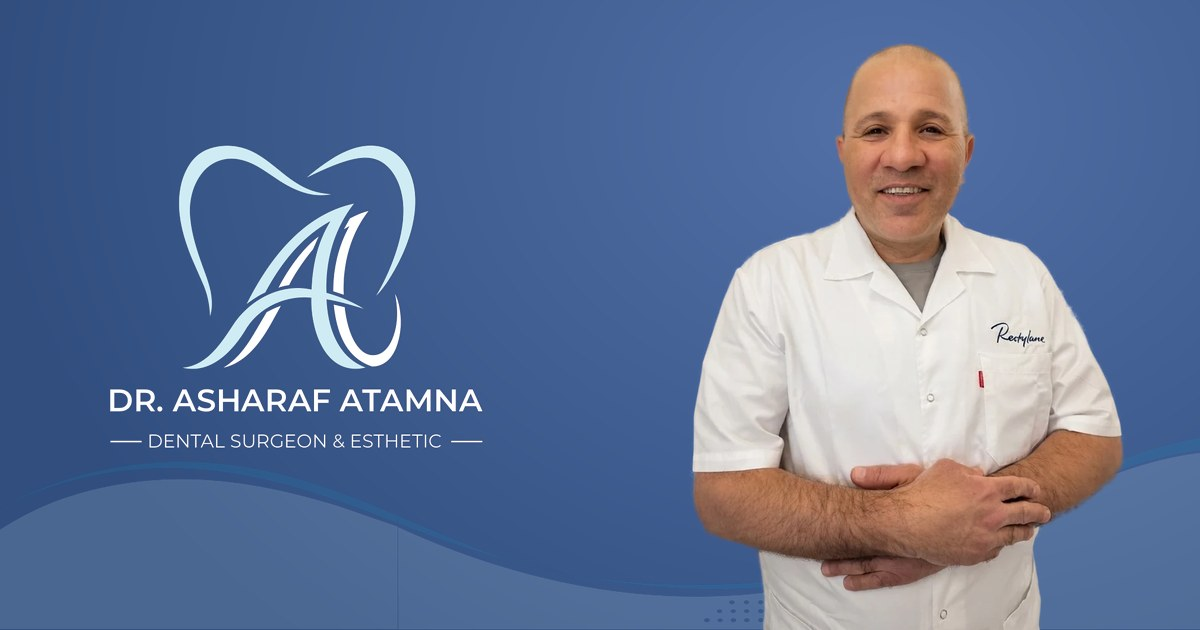
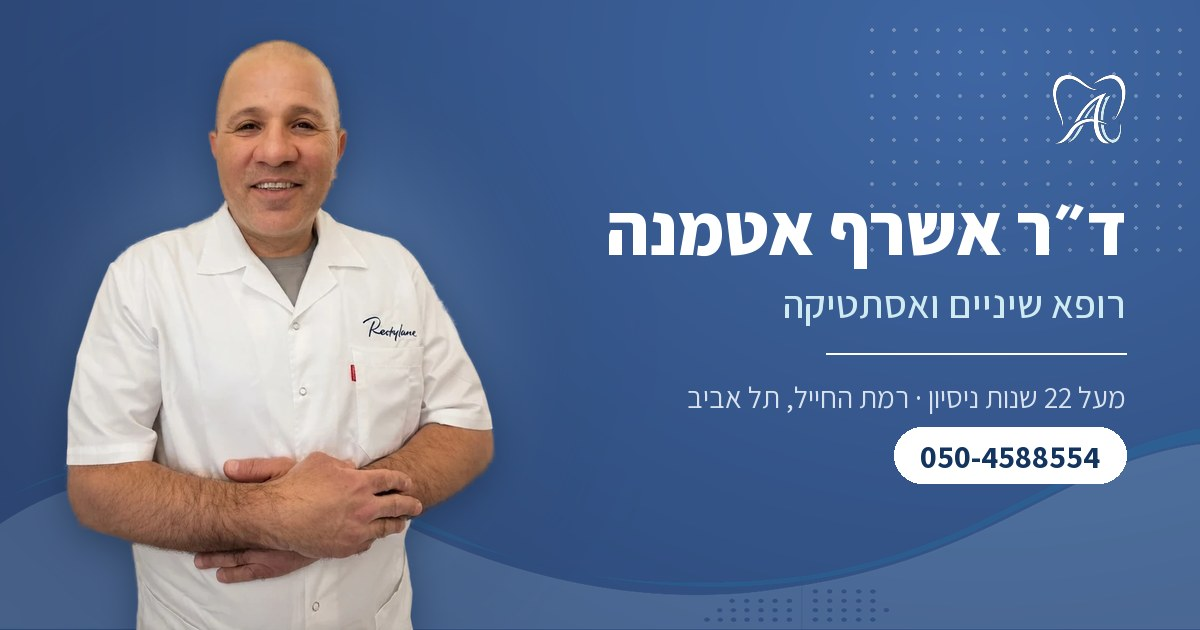
תמונת שיתוף (Open Graph) עם ד"ר אשרף וטקסט בעברית
assets/img/og-image.jpg (1200x630, 73KB) נבנתה מחדש:
ד"ר אשרף בחיתוך על רקע המותג, סמל הלוגו, שמו בעברית, התחום, הוותק,
המיקום ומספר טלפון בכפתור. הטקסט מרונדר בגופן Assistant (אותו גופן שבאתר).

תגיות בכל ששת העמודים - הושלמו החסרות:
og:image, og:image:secure_url, og:image:type, og:image:width,
og:image:height, og:image:alt, twitter:card, twitter:image, twitter:image:alt.
לפני כן בעמודי מדיניות פרטיות והצהרת נגישות חסרו width/height,
ובכל העמודים חסרו alt, type ו-twitter:image.

_build/make-og-image.py חדש: בונה מחדש את התמונה אם משתנים הטלפון,
הכתובת או התמונה של ד"ר אשרף. מוריד לבד את הגופן בהרצה הראשונה.

diff --git a/services/index.html b/services/index.html
@@ -16,9 +16,14 @@
 <meta property="og:description" content="מטיפולי חירום ועד שיקומי פה מורכבים, שתלים ואסתטיקה - כל תחומי הטיפול של המרפאה במקום אחד.">
 <meta property="og:url" content="https://dr-atamna.co.il/services/">
 <meta property="og:image" content="https://dr-atamna.co.il/assets/img/og-image.jpg">
+<meta property="og:image:secure_url" content="https://dr-atamna.co.il/assets/img/og-image.jpg">
+<meta property="og:image:type" content="image/jpeg">
 <meta property="og:image:width" content="1200">
 <meta property="og:image:height" content="630">
+<meta property="og:image:alt" content="ד״ר אשרף אטמנה, רופא שיניים ואסתטיקה ברמת החייל, תל אביב">
 <meta name="twitter:card" content="summary_large_image">
+<meta name="twitter:image" content="https://dr-atamna.co.il/assets/img/og-image.jpg">
+<meta name="twitter:image:alt" content="ד״ר אשרף אטמנה, רופא שיניים ואסתטיקה ברמת החייל, תל אביב">
 
 <link rel="icon" href="../assets/img/favicon.svg" type="image/svg+xml">
 <link rel="icon" href="../assets/img/favicon-32.png" sizes="32x32">

diff --git a/_build/services.head.html b/_build/services.head.html
@@ -13,9 +13,14 @@
 <meta property="og:description" content="מטיפולי חירום ועד שיקומי פה מורכבים, שתלים ואסתטיקה - כל תחומי הטיפול של המרפאה במקום אחד.">
 <meta property="og:url" content="https://dr-atamna.co.il/services/">
 <meta property="og:image" content="https://dr-atamna.co.il/assets/img/og-image.jpg">
+<meta property="og:image:secure_url" content="https://dr-atamna.co.il/assets/img/og-image.jpg">
+<meta property="og:image:type" content="image/jpeg">
 <meta property="og:image:width" content="1200">
 <meta property="og:image:height" content="630">
+<meta property="og:image:alt" content="ד״ר אשרף אטמנה, רופא שיניים ואסתטיקה ברמת החייל, תל אביב">
 <meta name="twitter:card" content="summary_large_image">
+<meta name="twitter:image" content="https://dr-atamna.co.il/assets/img/og-image.jpg">
+<meta name="twitter:image:alt" content="ד״ר אשרף אטמנה, רופא שיניים ואסתטיקה ברמת החייל, תל אביב">
 
 <link rel="icon" href="assets/img/favicon.svg" type="image/svg+xml">
 <link rel="icon" href="assets/img/favicon-32.png" sizes="32x32">

diff --git a/index.html b/index.html
@@ -18,9 +18,14 @@
 <meta property="og:description" content="ד״ר אשרף אטמנה, רופא שיניים עם מעל 22 שנות ניסיון - טיפולים משמרים, שיקומי פה, שתלים ואסתטיקה, בגישה אישית ואמפתית.">
 <meta property="og:url" content="https://dr-atamna.co.il/">
 <meta property="og:image" content="https://dr-atamna.co.il/assets/img/og-image.jpg">
+<meta property="og:image:secure_url" content="https://dr-atamna.co.il/assets/img/og-image.jpg">
+<meta property="og:image:type" content="image/jpeg">
 <meta property="og:image:width" content="1200">
 <meta property="og:image:height" content="630">
+<meta property="og:image:alt" content="ד״ר אשרף אטמנה, רופא שיניים ואסתטיקה ברמת החייל, תל אביב">
 <meta name="twitter:card" content="summary_large_image">
+<meta name="twitter:image" content="https://dr-atamna.co.il/assets/img/og-image.jpg">
+<meta name="twitter:image:alt" content="ד״ר אשרף אטמנה, רופא שיניים ואסתטיקה ברמת החייל, תל אביב">
 
 <!-- Icons & manifest -->
 <link rel="icon" href="assets/img/favicon.svg" type="image/svg+xml">

diff --git a/about/index.html b/about/index.html
@@ -16,9 +16,14 @@
 <meta property="og:description" content="מעל 22 שנות ניסיון קליני, גישה אנושית ואמפתית, וטיפול שמתחיל בהקשבה אמיתית.">
 <meta property="og:url" content="https://dr-atamna.co.il/about/">
 <meta property="og:image" content="https://dr-atamna.co.il/assets/img/og-image.jpg">
+<meta property="og:image:secure_url" content="https://dr-atamna.co.il/assets/img/og-image.jpg">
+<meta property="og:image:type" content="image/jpeg">
 <meta property="og:image:width" content="1200">
 <meta property="og:image:height" content="630">
+<meta property="og:image:alt" content="ד״ר אשרף אטמנה, רופא שיניים ואסתטיקה ברמת החייל, תל אביב">
 <meta name="twitter:card" content="summary_large_image">
+<meta name="twitter:image" content="https://dr-atamna.co.il/assets/img/og-image.jpg">
+<meta name="twitter:image:alt" content="ד״ר אשרף אטמנה, רופא שיניים ואסתטיקה ברמת החייל, תל אביב">
 
 <link rel="icon" href="../assets/img/favicon.svg" type="image/svg+xml">
 <link rel="icon" href="../assets/img/favicon-32.png" sizes="32x32">

diff --git a/_build/about.head.html b/_build/about.head.html
@@ -13,9 +13,14 @@
 <meta property="og:description" content="מעל 22 שנות ניסיון קליני, גישה אנושית ואמפתית, וטיפול שמתחיל בהקשבה אמיתית.">
 <meta property="og:url" content="https://dr-atamna.co.il/about/">
 <meta property="og:image" content="https://dr-atamna.co.il/assets/img/og-image.jpg">
+<meta property="og:image:secure_url" content="https://dr-atamna.co.il/assets/img/og-image.jpg">
+<meta property="og:image:type" content="image/jpeg">
 <meta property="og:image:width" content="1200">
 <meta property="og:image:height" content="630">
+<meta property="og:image:alt" content="ד״ר אשרף אטמנה, רופא שיניים ואסתטיקה ברמת החייל, תל אביב">
 <meta name="twitter:card" content="summary_large_image">
+<meta name="twitter:image" content="https://dr-atamna.co.il/assets/img/og-image.jpg">
+<meta name="twitter:image:alt" content="ד״ר אשרף אטמנה, רופא שיניים ואסתטיקה ברמת החייל, תל אביב">
 
 <link rel="icon" href="assets/img/favicon.svg" type="image/svg+xml">
 <link rel="icon" href="assets/img/favicon-32.png" sizes="32x32">

diff --git a/contact/index.html b/contact/index.html
@@ -16,9 +16,14 @@
 <meta property="og:description" content="050-4588554 · drasrf.clinic@gmail.com · רח׳ נמירובר 2 (הרוגי מלכות 7), רמת החייל, תל אביב.">
 <meta property="og:url" content="https://dr-atamna.co.il/contact/">
 <meta property="og:image" content="https://dr-atamna.co.il/assets/img/og-image.jpg">
+<meta property="og:image:secure_url" content="https://dr-atamna.co.il/assets/img/og-image.jpg">
+<meta property="og:image:type" content="image/jpeg">
 <meta property="og:image:width" content="1200">
 <meta property="og:image:height" content="630">
+<meta property="og:image:alt" content="ד״ר אשרף אטמנה, רופא שיניים ואסתטיקה ברמת החייל, תל אביב">
 <meta name="twitter:card" content="summary_large_image">
+<meta name="twitter:image" content="https://dr-atamna.co.il/assets/img/og-image.jpg">
+<meta name="twitter:image:alt" content="ד״ר אשרף אטמנה, רופא שיניים ואסתטיקה ברמת החייל, תל אביב">
 
 <link rel="icon" href="../assets/img/favicon.svg" type="image/svg+xml">
 <link rel="icon" href="../assets/img/favicon-32.png" sizes="32x32">

diff --git a/_build/contact.head.html b/_build/contact.head.html
@@ -13,9 +13,14 @@
 <meta property="og:description" content="050-4588554 · drasrf.clinic@gmail.com · רח׳ נמירובר 2 (הרוגי מלכות 7), רמת החייל, תל אביב.">
 <meta property="og:url" content="https://dr-atamna.co.il/contact/">
 <meta property="og:image" content="https://dr-atamna.co.il/assets/img/og-image.jpg">
+<meta property="og:image:secure_url" content="https://dr-atamna.co.il/assets/img/og-image.jpg">
+<meta property="og:image:type" content="image/jpeg">
 <meta property="og:image:width" content="1200">
 <meta property="og:image:height" content="630">
+<meta property="og:image:alt" content="ד״ר אשרף אטמנה, רופא שיניים ואסתטיקה ברמת החייל, תל אביב">
 <meta name="twitter:card" content="summary_large_image">
+<meta name="twitter:image" content="https://dr-atamna.co.il/assets/img/og-image.jpg">
+<meta name="twitter:image:alt" content="ד״ר אשרף אטמנה, רופא שיניים ואסתטיקה ברמת החייל, תל אביב">
 
 <link rel="icon" href="assets/img/favicon.svg" type="image/svg+xml">
 <link rel="icon" href="assets/img/favicon-32.png" sizes="32x32">

diff --git a/accessibility/index.html b/accessibility/index.html
@@ -16,7 +16,14 @@
 <meta property="og:description" content="רמת הנגישות באתר ובמרפאה, ופרטי הפנייה בנושא נגישות.">
 <meta property="og:url" content="https://dr-atamna.co.il/accessibility/">
 <meta property="og:image" content="https://dr-atamna.co.il/assets/img/og-image.jpg">
+<meta property="og:image:secure_url" content="https://dr-atamna.co.il/assets/img/og-image.jpg">
+<meta property="og:image:type" content="image/jpeg">
+<meta property="og:image:width" content="1200">
+<meta property="og:image:height" content="630">
+<meta property="og:image:alt" content="ד״ר אשרף אטמנה, רופא שיניים ואסתטיקה ברמת החייל, תל אביב">
 <meta name="twitter:card" content="summary_large_image">
+<meta name="twitter:image" content="https://dr-atamna.co.il/assets/img/og-image.jpg">
+<meta name="twitter:image:alt" content="ד״ר אשרף אטמנה, רופא שיניים ואסתטיקה ברמת החייל, תל אביב">
 
 <link rel="icon" href="../assets/img/favicon.svg" type="image/svg+xml">
 <link rel="icon" href="../assets/img/favicon-32.png" sizes="32x32">

diff --git a/privacy/index.html b/privacy/index.html
@@ -16,7 +16,14 @@
 <meta property="og:description" content="אילו פרטים נאספים באתר, למה הם משמשים וכיצד הם נשמרים.">
 <meta property="og:url" content="https://dr-atamna.co.il/privacy/">
 <meta property="og:image" content="https://dr-atamna.co.il/assets/img/og-image.jpg">
+<meta property="og:image:secure_url" content="https://dr-atamna.co.il/assets/img/og-image.jpg">
+<meta property="og:image:type" content="image/jpeg">
+<meta property="og:image:width" content="1200">
+<meta property="og:image:height" content="630">
+<meta property="og:image:alt" content="ד״ר אשרף אטמנה, רופא שיניים ואסתטיקה ברמת החייל, תל אביב">
 <meta name="twitter:card" content="summary_large_image">
+<meta name="twitter:image" content="https://dr-atamna.co.il/assets/img/og-image.jpg">
+<meta name="twitter:image:alt" content="ד״ר אשרף אטמנה, רופא שיניים ואסתטיקה ברמת החייל, תל אביב">
 
 <link rel="icon" href="../assets/img/favicon.svg" type="image/svg+xml">
 <link rel="icon" href="../assets/img/favicon-32.png" sizes="32x32">

diff --git a/_build/accessibility.head.html b/_build/accessibility.head.html
@@ -13,7 +13,14 @@
 <meta property="og:description" content="רמת הנגישות באתר ובמרפאה, ופרטי הפנייה בנושא נגישות.">
 <meta property="og:url" content="https://dr-atamna.co.il/accessibility/">
 <meta property="og:image" content="https://dr-atamna.co.il/assets/img/og-image.jpg">
+<meta property="og:image:secure_url" content="https://dr-atamna.co.il/assets/img/og-image.jpg">
+<meta property="og:image:type" content="image/jpeg">
+<meta property="og:image:width" content="1200">
+<meta property="og:image:height" content="630">
+<meta property="og:image:alt" content="ד״ר אשרף אטמנה, רופא שיניים ואסתטיקה ברמת החייל, תל אביב">
 <meta name="twitter:card" content="summary_large_image">
+<meta name="twitter:image" content="https://dr-atamna.co.il/assets/img/og-image.jpg">
+<meta name="twitter:image:alt" content="ד״ר אשרף אטמנה, רופא שיניים ואסתטיקה ברמת החייל, תל אביב">
 
 <link rel="icon" href="assets/img/favicon.svg" type="image/svg+xml">
 <link rel="icon" href="assets/img/favicon-32.png" sizes="32x32">

diff --git a/_build/privacy.head.html b/_build/privacy.head.html
@@ -13,7 +13,14 @@
 <meta property="og:description" content="אילו פרטים נאספים באתר, למה הם משמשים וכיצד הם נשמרים.">
 <meta property="og:url" content="https://dr-atamna.co.il/privacy/">
 <meta property="og:image" content="https://dr-atamna.co.il/assets/img/og-image.jpg">
+<meta property="og:image:secure_url" content="https://dr-atamna.co.il/assets/img/og-image.jpg">
+<meta property="og:image:type" content="image/jpeg">
+<meta property="og:image:width" content="1200">
+<meta property="og:image:height" content="630">
+<meta property="og:image:alt" content="ד״ר אשרף אטמנה, רופא שיניים ואסתטיקה ברמת החייל, תל אביב">
 <meta name="twitter:card" content="summary_large_image">
+<meta name="twitter:image" content="https://dr-atamna.co.il/assets/img/og-image.jpg">
+<meta name="twitter:image:alt" content="ד״ר אשרף אטמנה, רופא שיניים ואסתטיקה ברמת החייל, תל אביב">
 
 <link rel="icon" href="assets/img/favicon.svg" type="image/svg+xml">
 <link rel="icon" href="assets/img/favicon-32.png" sizes="32x32">

diff --git a/_build/make-og-image.py b/_build/make-og-image.py
@@ -1,0 +1,170 @@
+# -*- coding: utf-8 -*-
+"""
+בונה מחדש את תמונת השיתוף לרשתות (Open Graph) - assets/img/og-image.jpg
+
+זו התמונה שמופיעה בתצוגה המקדימה כששולחים קישור לאתר בוואטסאפ, פייסבוק,
+טלגרם, לינקדאין ו-X. היא מכילה את התמונה של ד"ר אשרף, שם, תחום ומספר טלפון.
+
+מתי צריך להריץ מחדש:
+  - השתנה מספר הטלפון או הכתובת
+  - התחלפה התמונה של ד"ר אשרף (assets/img/dr-asharaf-cutout-720.webp)
+  - רוצים לשנות את הכיתוב
+
+דרישות:  pip install pillow pymupdf python-bidi
+הרצה:    python make-og-image.py
+
+חשוב: אחרי החלפת התמונה, וואטסאפ ופייסבוק שומרים את התצוגה הישנה במטמון.
+כדי לרענן - להשתמש ב-Facebook Sharing Debugger:
+https://developers.facebook.com/tools/debug/
+"""
+import math, os, re, sys, urllib.request
+
+try:
+    sys.stdout.reconfigure(encoding='utf-8', errors='replace')
+except Exception:
+    pass
+
+try:
+    from PIL import Image, ImageDraw, ImageFont, ImageFilter
+    import fitz
+    from bidi.algorithm import get_display
+except ImportError:
+    sys.exit('חסרות ספריות. הריצו:  pip install pillow pymupdf python-bidi')
+
+HERE = os.path.dirname(os.path.abspath(__file__))
+SITE = os.path.dirname(HERE)
+IMG = os.path.join(SITE, 'assets', 'img')
+FONTS = os.path.join(HERE, '.fonts')
+
+# ------------------------------------------------------- מה כתוב בתמונה
+NAME = 'ד״ר אשרף אטמנה'
+ROLE = 'רופא שיניים ואסתטיקה'
+META = 'מעל 22 שנות ניסיון · רמת החייל, תל אביב'
+PHONE = '050-4588554'
+
+W, H = 1200, 630
+NAVY, NAVY_HI, SKY = (44, 70, 116), (63, 103, 163), (207, 234, 241)
+
+
+def get_fonts():
+    """מוריד את הגופן Assistant (אותו גופן שבאתר) פעם אחת ל-_build/.fonts"""
+    os.makedirs(FONTS, exist_ok=True)
+    want = {'ExtraBold': None, 'Bold': None, 'Medium': None, 'Regular': None}
+    cached = {}
+    for f in os.listdir(FONTS):
+        if f.endswith('.ttf'):
+            try:
+                cached[ImageFont.truetype(os.path.join(FONTS, f), 12).getname()[1]] = os.path.join(FONTS, f)
+            except Exception:
+                pass
+    if all(k in cached for k in want):
+        return cached
+
+    req = urllib.request.Request(
+        'https://fonts.googleapis.com/css2?family=Assistant:wght@400..800',
+        headers={'User-Agent': 'Mozilla/5.0'})
+    css = urllib.request.urlopen(req, timeout=30).read().decode()
+    for i, url in enumerate(sorted(set(re.findall(r'https://fonts\.gstatic\.com[^)]+', css)))):
+        path = os.path.join(FONTS, 'assistant-%d.ttf' % i)
+        if not os.path.exists(path):
+            urllib.request.urlretrieve(url, path)
+        try:
+            cached[ImageFont.truetype(path, 12).getname()[1]] = path
+        except Exception:
+            pass
+    missing = [k for k in want if k not in cached]
+    if missing:
+        sys.exit('לא נמצאו משקלי גופן: ' + ', '.join(missing))
+    return cached
+
+
+def main():
+    fonts = get_fonts()
+    F = lambda w, s: ImageFont.truetype(fonts[w], s)
+    heb = get_display
+
+    # רקע עם גרדיאנט
+    img = Image.new('RGB', (W, H), NAVY)
+    px = img.load()
+    for y in range(H):
+        for x in range(0, W, 3):
+            t = 1 - min(1.0, math.hypot((x - 980) / 1050.0, (y - 60) / 820.0))
+            c = tuple(int(NAVY[i] + (NAVY_HI[i] - NAVY[i]) * t) for i in range(3))
+            for k in range(3):
+                if x + k < W:
+                    px[x + k, y] = c
+
+    # גל המותג בתחתית
+    wp = fitz.open(os.path.join(IMG, 'wave.svg'))[0].get_pixmap(
+        matrix=fitz.Matrix(W / 540.0, W / 540.0), alpha=True)
+    wave = Image.frombytes('RGBA', (wp.width, wp.height), wp.samples).resize((W + 12, 210), Image.LANCZOS)
+    wave.putalpha(wave.split()[3].point(lambda v: int(v * 0.16)))
+    img.paste(wave, (-6, H - 210), wave)
+
+    # רשת נקודות
+    dots = Image.new('RGBA', (W, H), (0, 0, 0, 0))
+    dd = ImageDraw.Draw(dots)
+    for i in range(W - 330, W, 22):
+        for j in range(28, 260, 22):
+            dd.ellipse([i, j, i + 3, j + 3], fill=(255, 255, 255, 70))
+    img.paste(dots, (0, 0), dots)
+
+    # ד"ר אשרף
+    cut = Image.open(os.path.join(IMG, 'dr-asharaf-cutout-720.webp')).convert('RGBA')
+    ch = 596
+    cut = cut.resize((int(round(cut.width * ch / float(cut.height))), ch), Image.LANCZOS)
+    halo = Image.new('RGBA', (W, H), (0, 0, 0, 0))
+    hx, hy = 60 + cut.width // 2, H - ch // 2 + 10
+    ImageDraw.Draw(halo).ellipse([hx - 250, hy - 250, hx + 250, hy + 250], fill=SKY + (46,))
+    halo = halo.filter(ImageFilter.GaussianBlur(70))
+    img.paste(halo, (0, 0), halo)
+    sh = Image.new('RGBA', (W, H), (0, 0, 0, 0))
+    sh.paste(cut, (60, H - ch + 12), cut)
+    sh = sh.filter(ImageFilter.GaussianBlur(18))
+    blk = Image.new('RGBA', (W, H), (6, 20, 44, 255))
+    blk.putalpha(sh.split()[3].point(lambda v: int(v * 0.42)))
+    img.paste(blk, (0, 0), blk)
+    img.paste(cut, (60, H - ch), cut)
+
+    d = ImageDraw.Draw(img)
+    RIGHT = W - 74
+
+    def rt(y, text, f, fill):
+        s = heb(text)
+        d.text((RIGHT - d.textlength(s, font=f), y), s, font=f, fill=fill)
+
+    # סמל הלוגו בלבן
+    paths = re.findall(r'<path fill="(#[0-9A-Fa-f]{6})" d="([^"]+)"/>',
+                       open(os.path.join(IMG, 'logo-mark.svg'), encoding='utf-8').read())
+    recol = {'#108BB9': '#FFFFFF', '#CFECF5': '#CFEAF1'}
+    svg = '<svg xmlns="http://www.w3.org/2000/svg" viewBox="0 0 72.86 71.2">%s</svg>' % ''.join(
+        '<path fill="%s" d="%s"/>' % (recol[c], p) for c, p in paths)
+    tmp = os.path.join(HERE, '_ogmark.svg')
+    open(tmp, 'w', encoding='utf-8').write(svg)
+    mp = fitz.open(tmp)[0].get_pixmap(matrix=fitz.Matrix(74 / 72.86, 74 / 72.86), alpha=True)
+    mark = Image.frombytes('RGBA', (mp.width, mp.height), mp.samples)
+    img.paste(mark, (RIGHT - mark.width, 74), mark)
+    os.remove(tmp)
+
+    y = 74 + mark.height + 34
+    rt(y, NAME, F('ExtraBold', 72), (255, 255, 255));            y += 96
+    rt(y, ROLE, F('Medium', 40), SKY);                            y += 66
+    d.line([(RIGHT - 300, y + 10), (RIGHT, y + 10)], fill=(255, 255, 255), width=2)
+    y += 34
+    rt(y, META, F('Regular', 30), (215, 226, 238));               y += 50
+
+    pf = F('Bold', 32)
+    pw = d.textlength(PHONE, font=pf)
+    box = [RIGHT - pw - 52, y, RIGHT, y + int(pf.size * 1.35) + 13]
+    d.rounded_rectangle(box, radius=(box[3] - box[1]) // 2, fill=(255, 255, 255))
+    d.text((box[0] + 26, y + 8), PHONE, font=pf, fill=(20, 52, 96))
+
+    out = os.path.join(IMG, 'og-image.jpg')
+    img.save(out, quality=88, optimize=True, progressive=True)
+    print('נכתב: %s  (%dx%d, %dKB)' % (out, W, H, os.path.getsize(out) // 1024))
+    print('זכרו לרענן את המטמון של פייסבוק/וואטסאפ:')
+    print('https://developers.facebook.com/tools/debug/')
+
+
+if __name__ == '__main__':
+    main()
